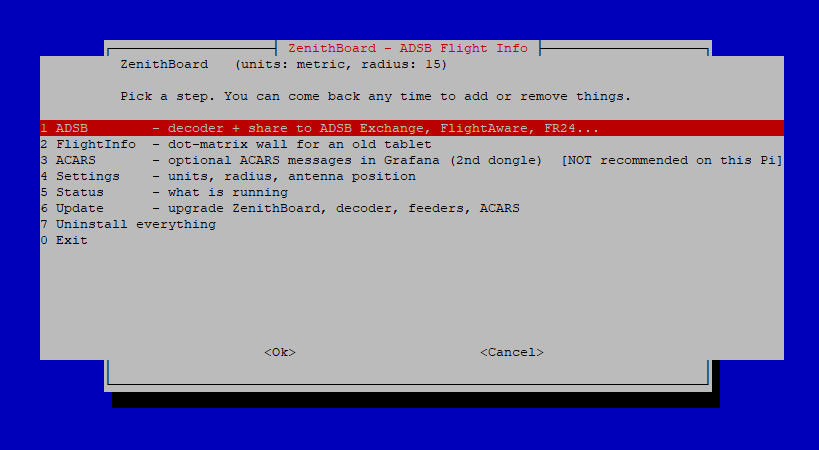
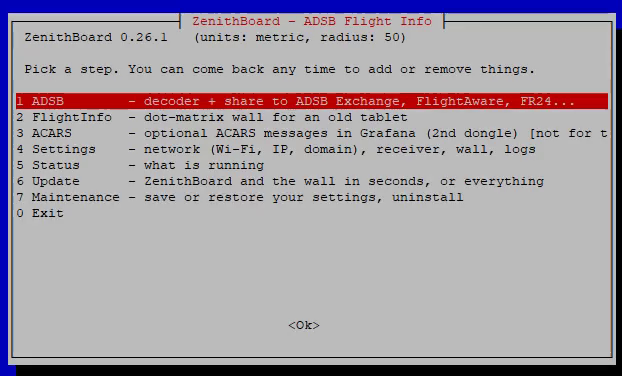
Docs: pictures of 0.26.1 (wall, posts, menus); no Planespotters photo, no Wi-Fi name

diff --git a/README.md b/README.md
@@ -24,9 +24,10 @@ Inspired by [jprochazka/adsb-receiver](https://github.com/jprochazka/adsb-receiv
 
 **Watch:** [what's new in ZenithBoard (flags, scrolling names, colours)](https://youtu.be/XHzTL2T3D2A) · [the new promotional Short](https://youtube.com/shorts/irg4B0wQOBI) · [the split-flap Short](https://youtube.com/shorts/RpelTSHk6jo) · [the short how-to (no installation details)](https://youtu.be/vuBje80VaZA) · [the whole playlist](https://www.youtube.com/channel/UCBlFORfQZ6XtUnpuG5fBd9Q/playlists)
 
-<p align="center"><img src="docs/images/wall/zb-wall-green.gif" alt="The ZenithBoard wall cycling through aircraft in green" width="460">&nbsp;<img src="docs/images/wall/zb-flap-roll.gif" alt="The split-flap look, letters rolling to the next aircraft" width="460"></p>
+<p align="center"><img src="docs/images/wall/zb-wall.gif" alt="The dot-matrix wall in turquoise: BAW357, a British Airways A320neo, its airline name scrolling beside the registration flag, then the next aircraft, D-IDBA, a Raytheon 390" width="460">&nbsp;<img src="docs/images/wall/zb-flap-roll.gif" alt="The split-flap look in green, letters rolling from RYR6QU, Bergamo to Luxembourg, to the next aircraft" width="460"></p>
 
-<p align="center"><img src="docs/images/wall/zb-three-colours.jpg" alt="The same flight in red, white and green" width="640"></p>
+<p align="center"><img src="docs/images/wall/zb-three-colours.jpg" alt="The wall in amber and turquoise dot matrix, and in green split-flap" width="640"></p>
+<p align="center"><em>Recorded on the reference Pi, 20 October 2026 (0.26.1). The tablet also shows the aircraft's photo from Planespotters; it is left out of these captures, as Planespotters' terms ask that its photos be shown only by the screen that fetches them, never copied.</em></p>
 
 The story behind the project: [ZenithBoard on regis-hennequin.info](https://regis-hennequin.info/beyond-the-desk/adsb/zenithboard/).
 
@@ -126,7 +127,10 @@ After the questions, the installer shows its main menu. *4 Settings* is organise
 
 Everything in the menus also exists as a command, which is quicker once you know what you want: `zenithboard status`, `sudo zenithboard update`, `zenithboard gain check`… The full list, grouped by subject with what each command is for, is the **[Command reference](https://github.com/regis57/ZenithBoard/wiki/Command-reference)** in the wiki.
 
-<p align="center"><img src="docs/images/install-3-menu.png" alt="The ZenithBoard main menu: ADSB, FlightInfo, ACARS, Settings, Status, Update, Maintenance" width="520"></p>
+<p align="center"><img src="docs/images/install-3-menu.png" alt="The ZenithBoard 0.26.1 main menu: ADSB, FlightInfo, ACARS, Settings, Status, Update, Maintenance, Exit" width="520"></p>
+
+<p align="center"><img src="docs/images/install-4-settings.png" alt="4 Settings: Network, Receiver, ZenithBoard wall, Logs, Reliability, Social sharing" width="400">&nbsp;<img src="docs/images/install-5-maintenance.png" alt="7 Maintenance: save my settings to a file, restore settings from a file, uninstall everything (asks you to type the word)" width="400">&nbsp;<img src="docs/images/install-6-update.png" alt="6 Update: quick (ZenithBoard and the wall only), all, pick, list" width="400"></p>
+<p align="center"><em>Settings, Maintenance and Update in 0.26.1. The Wi-Fi name on the Settings screen is replaced by MyHomeWiFi.</em></p>
 
 **1 · ADSB** — pick the decoder (**readsb** is recommended; **dump1090-fa** is supported as an alternative; both feed the same local port so every feeder works with either). Then tick where to share. *ADSB Exchange is always on.* The ADSB Exchange script will ask for a station name and your position, and prints a link to see your feed. FlightAware prints a claim link; **Flightradar24** runs FR24's own sign-up after printing what to answer (paste your *sharing key* — flightradar24.com → account → *My data sharing* — if you already feed FR24; otherwise Enter); Beast, `127.0.0.1`, port `30005` and MLAT no are enforced afterwards; Plane Finder finishes setup on a small web page. Unticking an installed feeder removes it after a confirmation.
 
@@ -266,11 +270,11 @@ In the menu, **Help me choose** explains these three, **Set up** asks for the na
 
 ## Look: dot matrix or airport split-flap board
 
-Two looks, same data. **Dot matrix** (default) is the amber dot display above. **Split-flap** imitates an old airport departure board (Frankfurt style): every row is made of small flaps, and when the wall moves to another aircraft the letters **roll one by one, row after row**, through the alphabet until they land on the new text. The photo and the silhouette stay as they are.
+Two looks, same data. **Dot matrix** (default) is the dot display above. **Split-flap** imitates an old airport departure board (Frankfurt style): every row is made of small flaps, and when the wall moves to another aircraft the letters **roll one by one, row after row**, through the alphabet until they land on the new text. The photo and the silhouette stay as they are.
 
-<p align="center"><img src="docs/images/wall/zb-flap-roll.gif" alt="The split-flap look: the letters roll one by one when the wall moves to the next aircraft" width="560"></p>
+<p align="center"><img src="docs/images/wall/zb-flap-roll.gif" alt="The split-flap look in green: the letters roll one by one from RYR6QU to D-IDBA when the wall moves to the next aircraft" width="560"></p>
 
-<p align="center"><img src="docs/images/wall/zb-beluga-flap.jpg" alt="The split-flap board showing an Airbus Beluga XL overhead: callsign BGA113J, A-330-700, 9750 m, 687 km/h, 32 km NNW" width="760"></p>
+<p align="center"><img src="docs/images/wall/zb-beluga-flap.jpg" alt="The split-flap board showing an Airbus Beluga XL overhead: callsign BGA113J, A-330-700, 9750 m, 687 km/h, 32 km NNW (an older version of the board, the photo left out)" width="760"></p>
 <p align="center"><em>A Beluga XL passing 32 km north-north-west, carrying wings to an assembly line. Its callsign has no airline name behind it, so that row stays blank — the board shows what it knows and nothing else.</em></p>
 
 | Where | How |
@@ -534,7 +538,7 @@ Off by default. Switched on, the Pi posts the aircraft worth a post — a milita
 | `dotmap` (the default) | `flap` |
 |---|---|
 | ![Dot-matrix picture with a map](docs/images/social-dotmap.jpg) | ![Split-flap picture with a map](docs/images/social-flap.jpg) |
-| The dot-matrix wall beside a map with the aircraft's track: a light or dark relief map with the main roads, satellite or terrain, every town named once. *A real post from the reference Pi (terrain map), 18 October 2026; the track is drawn thinner since 0.24.1* | The split-flap board beside the same map |
+| The dot-matrix wall beside a map with the aircraft's track: a light or dark relief map with the main roads, satellite or terrain, every town named once. *A real post from the reference Pi, 20 October 2026 (0.26.1): TAR954, Tunis to Brussels, satellite map* | The split-flap board beside the same map. *EWG86P, Palma to Cologne, on the light map (0.26.1)* |
 
 `alternate` takes `dotmap` and `flap` in turn, and the map and the colour can turn too. The map can also be `none`: the track on black, nothing fetched. The posts follow the wall's units, or their own: `sudo zenithboard social units imperial` (ft, knots, mi) or `metric`, also in the picture wizard (0.24.3). Each post can end with a link to the aircraft's Planespotters photo page, the photographer named: `sudo zenithboard social photolink on` (0.25.0; the link only, never the picture).
 

diff --git a/docs/wiki/Social-sharing.md b/docs/wiki/Social-sharing.md
@@ -16,11 +16,9 @@ sudo zenithboard social test       # draw the picture, print the text, post noth
 sudo zenithboard social on         # from now on, under the rules you chose
 ```
 
-What it looks like on Bluesky — the author's account, [@zenithboard.bsky.social](https://bsky.app/profile/zenithboard.bsky.social), on its first afternoon: a Lufthansa A340 posted by the service under `heavy` in the split-flap look (turquoise, night map), and a Eurowings A320 in the dot-matrix look.
+What it looks like on Bluesky — the author's account, [@zenithboard.bsky.social](https://bsky.app/profile/zenithboard.bsky.social), on 20 October 2026 (0.26.1): a KLM Cityhopper Embraer in the split-flap look on the satellite map, then a Tunisair A320 in the dot-matrix look, each with the photographer's link to Planespotters.
 
-<img src="https://github.com/regis57/ZenithBoard/raw/main/docs/images/social-feed.png" alt="The ZenithBoard account on Bluesky: the profile with its automated-account badge, a split-flap post with a map, a dot-matrix post" width="420">
-
-Those two were drawn by 0.19.0; since 0.19.3 the route rows give the city — `→SAN JOSE` and `→PALMA` where these show `→JUAN SANTAMAR` and `→PALMA DE`.
+<img src="https://github.com/regis57/ZenithBoard/raw/main/docs/images/social-feed.png" alt="The ZenithBoard account on Bluesky: the profile with its automated-account badge, a split-flap post (KLC70R, Torino to Amsterdam, satellite map), a dot-matrix post (TAR954, Tunis to Brussels)" width="420">
 
 Why Bluesky alone: X closed its free API in February 2026 and charges per post; Threads and Instagram cannot take an uploaded picture, they fetch it from a public address, which would mean putting the Pi on the internet. Bluesky takes the picture directly, costs nothing, and its API is open. Mastodon was supported in 0.18 and taken out in 0.19.0; an update removes its token from the Pi (revoke it on your instance too). See [When a provider changes something](Providers) for the general attitude.
 
@@ -107,11 +105,15 @@ The wall's rows as the tablet shows them (`FLT  EWG11S`, `REG  D-AIDO`, then air
 
 `sudo zenithboard social look dotmap` (0.23.0, asked for by the owner; the default since 0.24.0): the map is the split-flap look's, below — the same four maps, the same credit, the same `social map` setting and its `rotate` — with the track, the aircraft, the key and north. Node draws the dots with that column left dark and says where it is; Pillow lays the map there and writes a JPEG under Bluesky's limit. The map is a strip 400 pixels wide and 800 high, so when the aircraft would land under the key, the view is chosen in the part above the key and the credit: an aircraft flying south ends above the key, not under it. With `social map none` the strip shows the track on black over a faint grid, and nothing is fetched.
 
-*Above: a real post from the reference Pi, 18 October 2026, with the terrain map. The track is drawn thinner since 0.24.1. When the tiles do not come, the strip shows the track on a dark grid, with no credit.*
+*Above: a real post from the reference Pi, 20 October 2026 (0.26.1), with the satellite map: TAR954, Tunis to Brussels. When the tiles do not come, the strip shows the track on a dark grid, with no credit.*
 
 ### Split-flap with a map
 
-![The split-flap picture, normal map](https://github.com/regis57/ZenithBoard/raw/main/docs/images/social-flap.jpg)
+![The split-flap picture, light map: EWG86P, Palma to Cologne, a real post of 20 October 2026](https://github.com/regis57/ZenithBoard/raw/main/docs/images/social-flap.jpg)
+
+![The split-flap picture, dark map: KLM82K, Bâle/Mulhouse to Amsterdam, a real post of 20 October 2026](https://github.com/regis57/ZenithBoard/raw/main/docs/images/social-flap-night.jpg)
+
+*Real posts from the reference Pi, 20 October 2026 (0.26.1): the light map (`normal`) and the dark one (`night`), each town named once.*
 
 The board as the wall's split-flap look draws it — the same nine rows, without the flags, fourteen letters wide instead of sixteen so the map gets the room — beside a map centred on the track. On the map: the track and the aircraft in the picture's colour, edged in black so they read on any background; a key in the corner (`LAST 10 MIN`, and a scale bar in km or miles); north; and the map's credit along the bottom.
 
